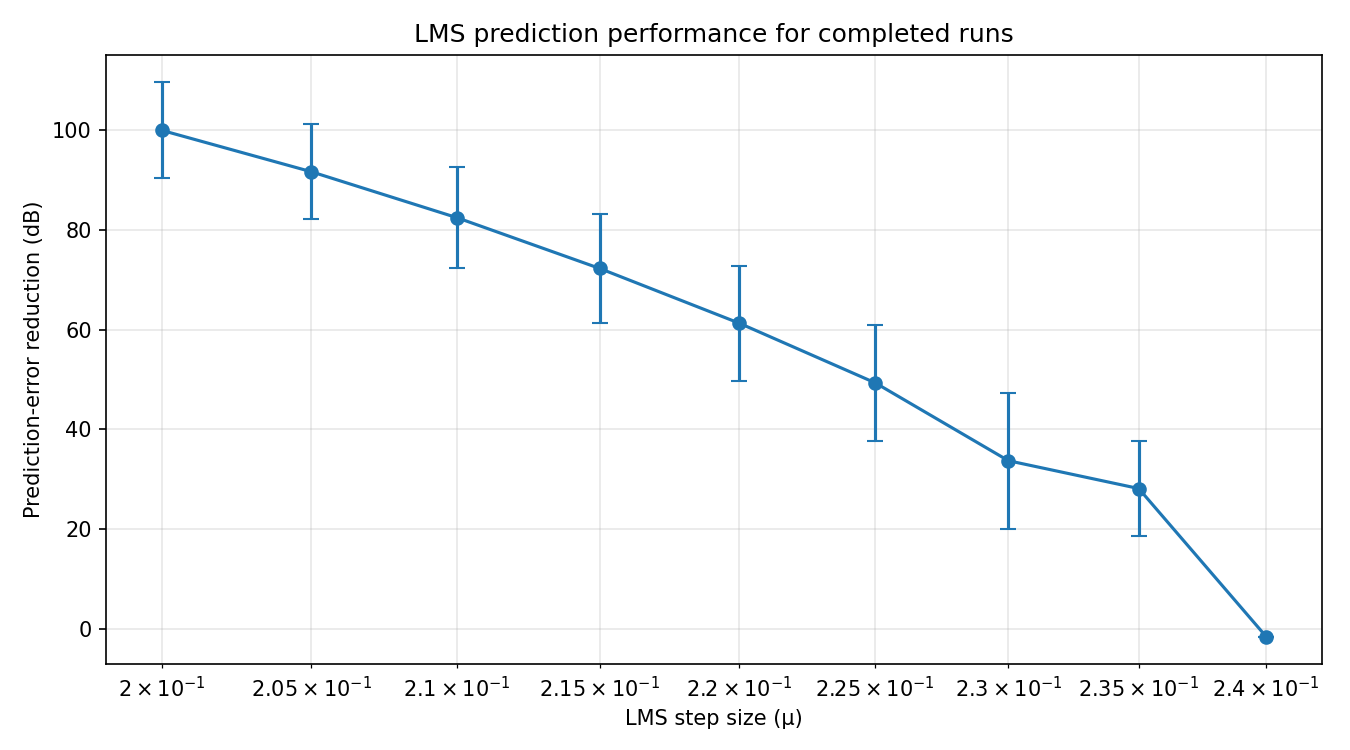
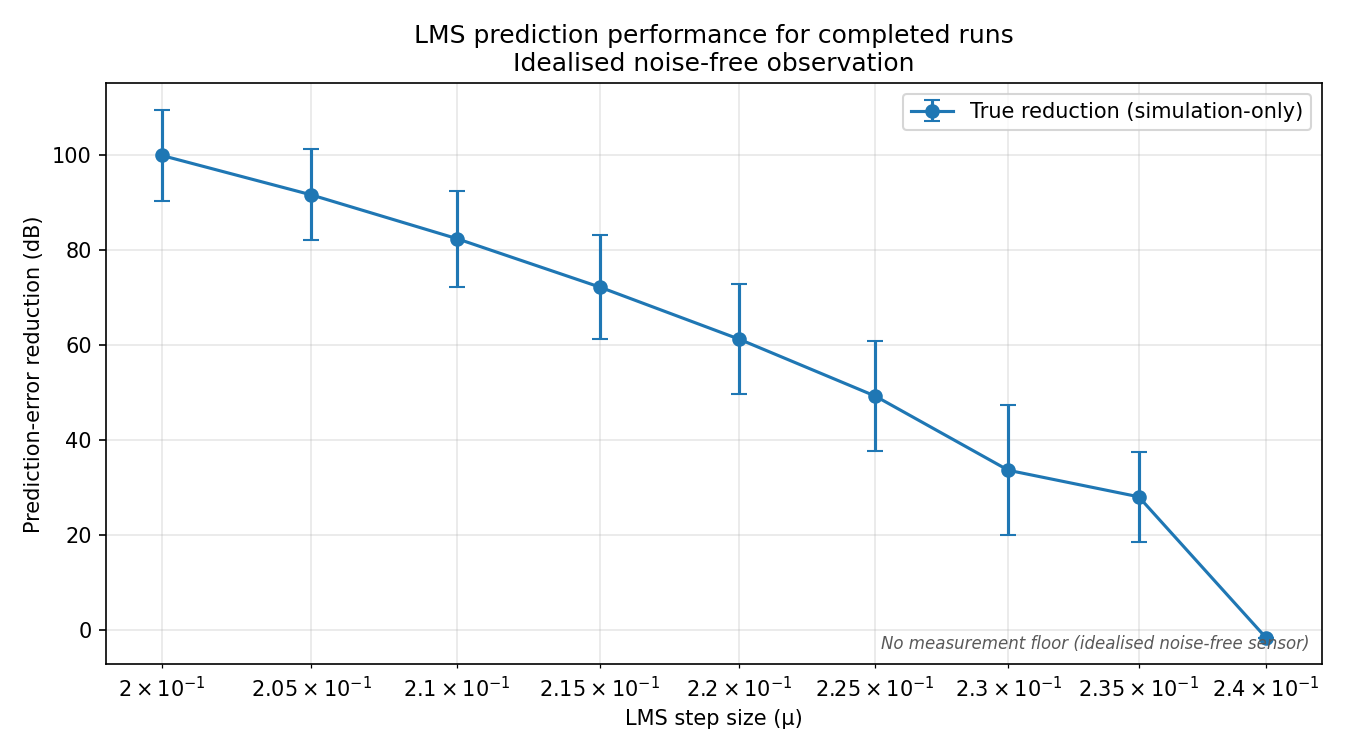
Add measurement noise configuration and handling to LMS step size sweep

diff --git a/experiments/step2_lms_step_size_sweep.py b/experiments/step2_lms_step_size_sweep.py
@@ -1,7 +1,7 @@
 from __future__ import annotations
 
-import csv
 import argparse
+import csv
 from pathlib import Path
 
 import matplotlib.pyplot as plt
@@ -10,6 +10,8 @@ import yaml
 
 from anc.adaptive import run_lms
 from anc.controllers import LMSController
+from anc.measurement import floor_report, make_measurement_noise
+from plotting import draw_measurement_floor, mean_finite_floor
 
 
 PROJECT_ROOT = Path(__file__).resolve().parents[1]
@@ -34,6 +36,7 @@ def load_config(config_path: Path) -> dict:
         raise ValueError("Experiment configuration must be a YAML mapping.")
 
     return config
+
 
 def generate_reference(
     sample_count: int,
@@ -105,6 +108,7 @@ def run_one(
     step_size: float,
     max_weight_norm: float,
     max_abs_error: float,
+    measurement_noise: np.ndarray | None = None,
 ):
     controller = LMSController(
         filter_length=filter_length,
@@ -117,6 +121,7 @@ def run_one(
         controller=controller,
         max_weight_norm=max_weight_norm,
         max_abs_error=max_abs_error,
+        measurement_noise=measurement_noise,
     )
 
 
@@ -127,6 +132,8 @@ def make_result_row(
     desired: np.ndarray,
     sample_rate_hz: int,
     transient_samples: int,
+    snr_db: float | None,
+    floor_margin_db: float,
 ) -> dict:
     processed = min(trace.processed_samples, desired.size)
     valid_error = trace.error[:processed]
@@ -139,6 +146,9 @@ def make_result_row(
 
     evaluation_error_rms = None
     evaluation_reduction = None
+    measurement_floor = None
+    evaluation_measured_reduction = None
+    evaluation_floor_limited = None
 
     if trace.status == "completed" and processed > transient_samples:
         evaluation_desired = desired[transient_samples:processed]
@@ -149,6 +159,18 @@ def make_result_row(
             evaluation_desired,
             evaluation_error,
         )
+
+        report = floor_report(
+            desired,
+            trace.error,
+            trace.measurement_noise,
+            start_sample=transient_samples,
+            stop_sample=processed,
+            margin_db=floor_margin_db,
+        )
+        measurement_floor = report.floor_db
+        evaluation_measured_reduction = report.measured_attenuation_db
+        evaluation_floor_limited = report.floor_limited
 
     divergence_time_s = (
         trace.divergence_sample / sample_rate_hz
@@ -168,6 +190,10 @@ def make_result_row(
         "peak_abs_error": peak_abs_error,
         "evaluation_error_rms": evaluation_error_rms,
         "evaluation_error_reduction_db": evaluation_reduction,
+        "measurement_snr_db": snr_db,
+        "measurement_floor_db": measurement_floor,
+        "evaluation_measured_reduction_db": evaluation_measured_reduction,
+        "evaluation_floor_limited": evaluation_floor_limited,
     }
 
 
@@ -205,6 +231,15 @@ def aggregate_results(
             if row["divergence_time_s"] is not None
         ]
 
+        measured_reductions = [
+            row["evaluation_measured_reduction_db"]
+            for row in completed
+            if row["evaluation_measured_reduction_db"] is not None
+        ]
+        floor_limited_runs = sum(
+            row["evaluation_floor_limited"] is True for row in completed
+        )
+
         finite_norms = [
             row["max_weight_norm"]
             for row in matching
@@ -223,6 +258,17 @@ def aggregate_results(
                 "std_evaluation_reduction_db": (
                     float(np.std(reductions)) if reductions else None
                 ),
+                "mean_measured_reduction_db": (
+                    float(np.mean(measured_reductions))
+                    if measured_reductions
+                    else None
+                ),
+                "std_measured_reduction_db": (
+                    float(np.std(measured_reductions))
+                    if measured_reductions
+                    else None
+                ),
+                "floor_limited_runs": floor_limited_runs,
                 "mean_divergence_time_s": (
                     float(np.mean(divergence_times))
                     if divergence_times
@@ -239,7 +285,10 @@ def aggregate_results(
 
 def save_plots(
     summary_rows: list[dict],
+    rows: list[dict],
     figures_dir: Path,
+    snr_db: float | None,
+    floor_margin_db: float,
 ) -> None:
     figures_dir.mkdir(parents=True, exist_ok=True)
 
@@ -293,12 +342,61 @@ def save_plots(
             yerr=stds,
             marker="o",
             capsize=4,
+            label="True reduction (simulation-only)",
         )
+
+        if snr_db is not None:
+            measured = np.array(
+                [row["mean_measured_reduction_db"] for row in valid_rows],
+                dtype=np.float64,
+            )
+            measured_stds = np.array(
+                [row["std_measured_reduction_db"] for row in valid_rows],
+                dtype=np.float64,
+            )
+            limited = np.array(
+                [
+                    row["floor_limited_runs"] == row["completed_runs"]
+                    for row in valid_rows
+                ],
+                dtype=bool,
+            )
+
+            ax.errorbar(
+                x,
+                measured,
+                yerr=measured_stds,
+                linestyle="--",
+                marker="none",
+                capsize=4,
+                color="C1",
+                label="Measured reduction",
+            )
+            ax.plot(x[~limited], measured[~limited], "o", color="C1")
+            ax.plot(
+                x[limited],
+                measured[limited],
+                "o",
+                color="C1",
+                markerfacecolor="white",
+                label="Measured, floor-limited",
+            )
+
+    draw_measurement_floor(
+        ax,
+        mean_finite_floor(rows),
+        margin_db=floor_margin_db,
+    )
 
     ax.set_xscale("log")
     ax.set_xlabel("LMS step size (μ)")
     ax.set_ylabel("Prediction-error reduction (dB)")
-    ax.set_title("LMS prediction performance for completed runs")
+    ax.set_title(
+        "LMS prediction performance for completed runs\n"
+        + ("Idealised noise-free observation" if snr_db is None
+           else f"Observation SNR {snr_db:g} dB")
+    )
+    ax.legend()
     ax.grid(True, which="both", alpha=0.3)
     fig.tight_layout()
 
@@ -324,6 +422,8 @@ def save_summary(
     path: Path,
     config: dict,
     summary_rows: list[dict],
+    snr_db: float | None,
+    floor_margin_db: float,
 ) -> None:
     experiment = config["experiment"]
     controller = config["controller"]
@@ -344,19 +444,39 @@ def save_summary(
         file.write(
             "A completed run processed the full signal without crossing "
             "either configured safety limit. Completion does not, by itself, "
-            "guarantee good prediction performance.\n\n"
+            "guarantee good prediction performance. Mean reductions are "
+            "averaged over completed runs only (survivor-only).\n\n"
         )
+
+        if snr_db is None:
+            file.write(
+                "Measurement noise: none (idealised observation). Reductions "
+                "are not bounded by a sensor floor; very high values reflect "
+                "numerical precision, not achievable performance.\n\n"
+            )
+        else:
+            file.write(
+                f"Measurement noise: SNR {snr_db:g} dB re. the desired "
+                f"signal. Measured values within {floor_margin_db:g} dB of "
+                f"the floor are marked floor-limited.\n\n"
+            )
 
         file.write(
             "μ | Completed | Diverged | Completion | "
-            "Mean reduction (dB) | Mean divergence time (s)\n"
+            "Mean reduction (dB) | Measured (dB) | Floor-limited | "
+            "Mean divergence time (s)\n"
         )
-        file.write("-" * 95 + "\n")
+        file.write("-" * 120 + "\n")
 
         for row in summary_rows:
             reduction = row["mean_evaluation_reduction_db"]
             reduction_text = (
                 f"{reduction:.4f}" if reduction is not None else "N/A"
+            )
+
+            measured = row["mean_measured_reduction_db"]
+            measured_text = (
+                f"{measured:.4f}" if measured is not None else "N/A"
             )
 
             divergence_time = row["mean_divergence_time_s"]
@@ -372,6 +492,8 @@ def save_summary(
                 f"{row['diverged_runs']} | "
                 f"{row['completion_fraction']:.2f} | "
                 f"{reduction_text} | "
+                f"{measured_text} | "
+                f"{row['floor_limited_runs']}/{row['completed_runs']} | "
                 f"{time_text}\n"
             )
 
@@ -414,6 +536,11 @@ def main() -> None:
         dtype=np.float64,
     )
 
+    noise_cfg = config.get("measurement_noise") or {}
+    snr_db = noise_cfg.get("snr_db")
+    snr_db = None if snr_db is None else float(snr_db)
+    floor_margin_db = float(noise_cfg.get("floor_margin_db", 3.0))
+
     max_weight_norm = float(config["safety"]["max_weight_norm"])
     max_abs_error = float(config["safety"]["max_abs_error"])
 
@@ -446,6 +573,7 @@ def main() -> None:
     print(f"Filter length: {filter_length} taps")
     print(f"Seeds: {seeds}")
     print(f"Step sizes: {step_sizes}")
+    print(f"Measurement SNR: {'none' if snr_db is None else f'{snr_db:g} dB'}")
     print()
 
     for seed in seeds:
@@ -456,6 +584,12 @@ def main() -> None:
         )
         desired = apply_primary_path(reference, primary_taps)
 
+        # One noise realisation per seed, shared by every step size
+        # (common random numbers across conditions).
+        measurement_noise = make_measurement_noise(
+            desired, snr_db, seed=seed
+        )
+
         for step_size in step_sizes:
             trace = run_one(
                 reference=reference,
@@ -464,7 +598,16 @@ def main() -> None:
                 step_size=step_size,
                 max_weight_norm=max_weight_norm,
                 max_abs_error=max_abs_error,
+                measurement_noise=measurement_noise,
             )
+
+            # Guard: a configured SNR must produce non-zero noise.
+            if snr_db is not None and not np.any(trace.measurement_noise):
+                raise RuntimeError(
+                    "measurement_noise.snr_db is set, but the run used "
+                    "zero measurement noise. Is measurement_noise passed "
+                    "to run_lms?"
+                )
 
             row = make_result_row(
                 seed=seed,
@@ -473,6 +616,8 @@ def main() -> None:
                 desired=desired,
                 sample_rate_hz=sample_rate_hz,
                 transient_samples=transient_samples,
+                snr_db=snr_db,
+                floor_margin_db=floor_margin_db,
             )
             rows.append(row)
 
@@ -505,8 +650,8 @@ def main() -> None:
 
     save_csv(per_seed_path, rows)
     save_csv(summary_csv_path, summary_rows)
-    save_summary(summary_path, config, summary_rows)
-    save_plots(summary_rows, figures_dir)
+    save_summary(summary_path, config, summary_rows, snr_db, floor_margin_db)
+    save_plots(summary_rows, rows, figures_dir, snr_db, floor_margin_db)
 
     print("\nSweep summary")
     print("-------------")
